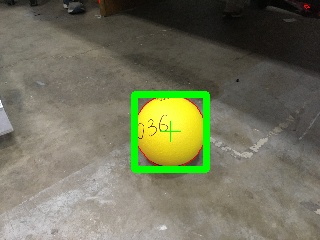
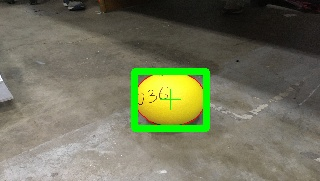
Tighten HSV hue range to exclude blue

diff --git a/src/main/java/BallVision.java b/src/main/java/BallVision.java
@@ -16,7 +16,7 @@ public class BallVision{
 
 //Load 6 test images, process, and write 6 output images. To-Do: Replace with camera input
     public static void main(String[] args) {
-        long hm_images = 13;
+        long hm_images = 14;
 
         System.loadLibrary(Core.NATIVE_LIBRARY_NAME);
         for (int i = 1; i<=hm_images; i++){
@@ -39,7 +39,7 @@ public class BallVision{
         // Resize
         Mat resizeInput = input;
         double resizeWidth = 320.0;
-        double resizeHeight = 240.0;
+        double resizeHeight = 181.3;
         Size toScale = new Size(resizeWidth, resizeHeight);
         Mat resizedOutput = new Mat();
         Imgproc.resize(resizeInput, resizedOutput, toScale);
@@ -56,14 +56,14 @@ public class BallVision{
          */
         // Blur
         Mat blurInput = resizedOutput;
-		double blurRadius = 2.7;
+		double blurRadius = 2.7;//2.7;
         double kernelSize = 2 * (blurRadius + 0.5) + 1;
         Mat blurOutput = new Mat();
         Imgproc.blur(blurInput, blurOutput, new Size(kernelSize, kernelSize));
         
         // Convert to HSV and Threshold
         Mat hsvThresholdInput = blurOutput;
-		double[] hsvThresholdHue = {20.0, 180.0};
+		double[] hsvThresholdHue = {20.0, 90.0};//{20.0, 180.0};
 		double[] hsvThresholdSaturation = {130.0, 255.0};
         double[] hsvThresholdValue = {0.0, 255.0};
         Mat hsvOutput = new Mat();
@@ -82,20 +82,24 @@ public class BallVision{
         
         //For each contour found, draw bounding rectangle and marker at center if over a certain size
         double tolerance = 0.3;
+        boolean using_tolerances = false;
         for(MatOfPoint contour : contours) {
             double ballArea = Imgproc.contourArea(contour);
 
             Rect boundRect = Imgproc.boundingRect(contour);
 
-            if (boundRect.height == 0) {
-                continue;
+            boolean in_tolerance = true;
+            if (using_tolerances) {
+                if (boundRect.height == 0) {
+                    continue;
+                }
+
+                double ratio = (double) boundRect.width / (double) boundRect.height;
+                //System.out.println(ratio);
+                in_tolerance = Math.abs(1 - ratio) < tolerance;
+
+                //in_tolerance = boundRect.width >= boundRect.height;*/
             }
-
-            double ratio = (double)boundRect.width / (double)boundRect.height;
-            //System.out.println(ratio);
-            boolean in_tolerance = Math.abs(1 - ratio) < tolerance;
-
-            //in_tolerance = boundRect.width >= boundRect.height;*/
             if(ballArea>=1000 && in_tolerance){
                 Imgproc.rectangle(resizedOutput, new Point(boundRect.x,boundRect.y), new Point(boundRect.x+boundRect.width,boundRect.y+boundRect.height), new Scalar(0,255,0),5);
                 long centerx = boundRect.x + boundRect.width / 2;
@@ -106,11 +110,15 @@ public class BallVision{
                 System.out.println("Boundary height: " + boundRect.height);
                 Imgproc.drawMarker(resizedOutput, new Point(centerx,centery), new Scalar(0,255,0));
 
-                double focalLen = 10.0; // estimated focal length of Edward's camera
+                /*
+                double focalLen = 55.1; // estimated focal length of Edward's camera
                 double ballSize = 177.8; // 7 inches in mm
-                double sensorHeight = 18.0;
+                double sensorHeight = 32.0;
+                // distance = (width of object)(focal length)/(Pixel width of object)
                 double distance = (focalLen * ballSize * resizeWidth) / ((double)boundRect.width * sensorHeight);
-                System.out.println("Distance from Camera: " + distance + "mm");
+                //double distance = (ballSize * focalLen) / (double)boundRect.width;
+                System.out.println("Distance from Camera " + distance + " mm");
+                 */
             }
 
         }
